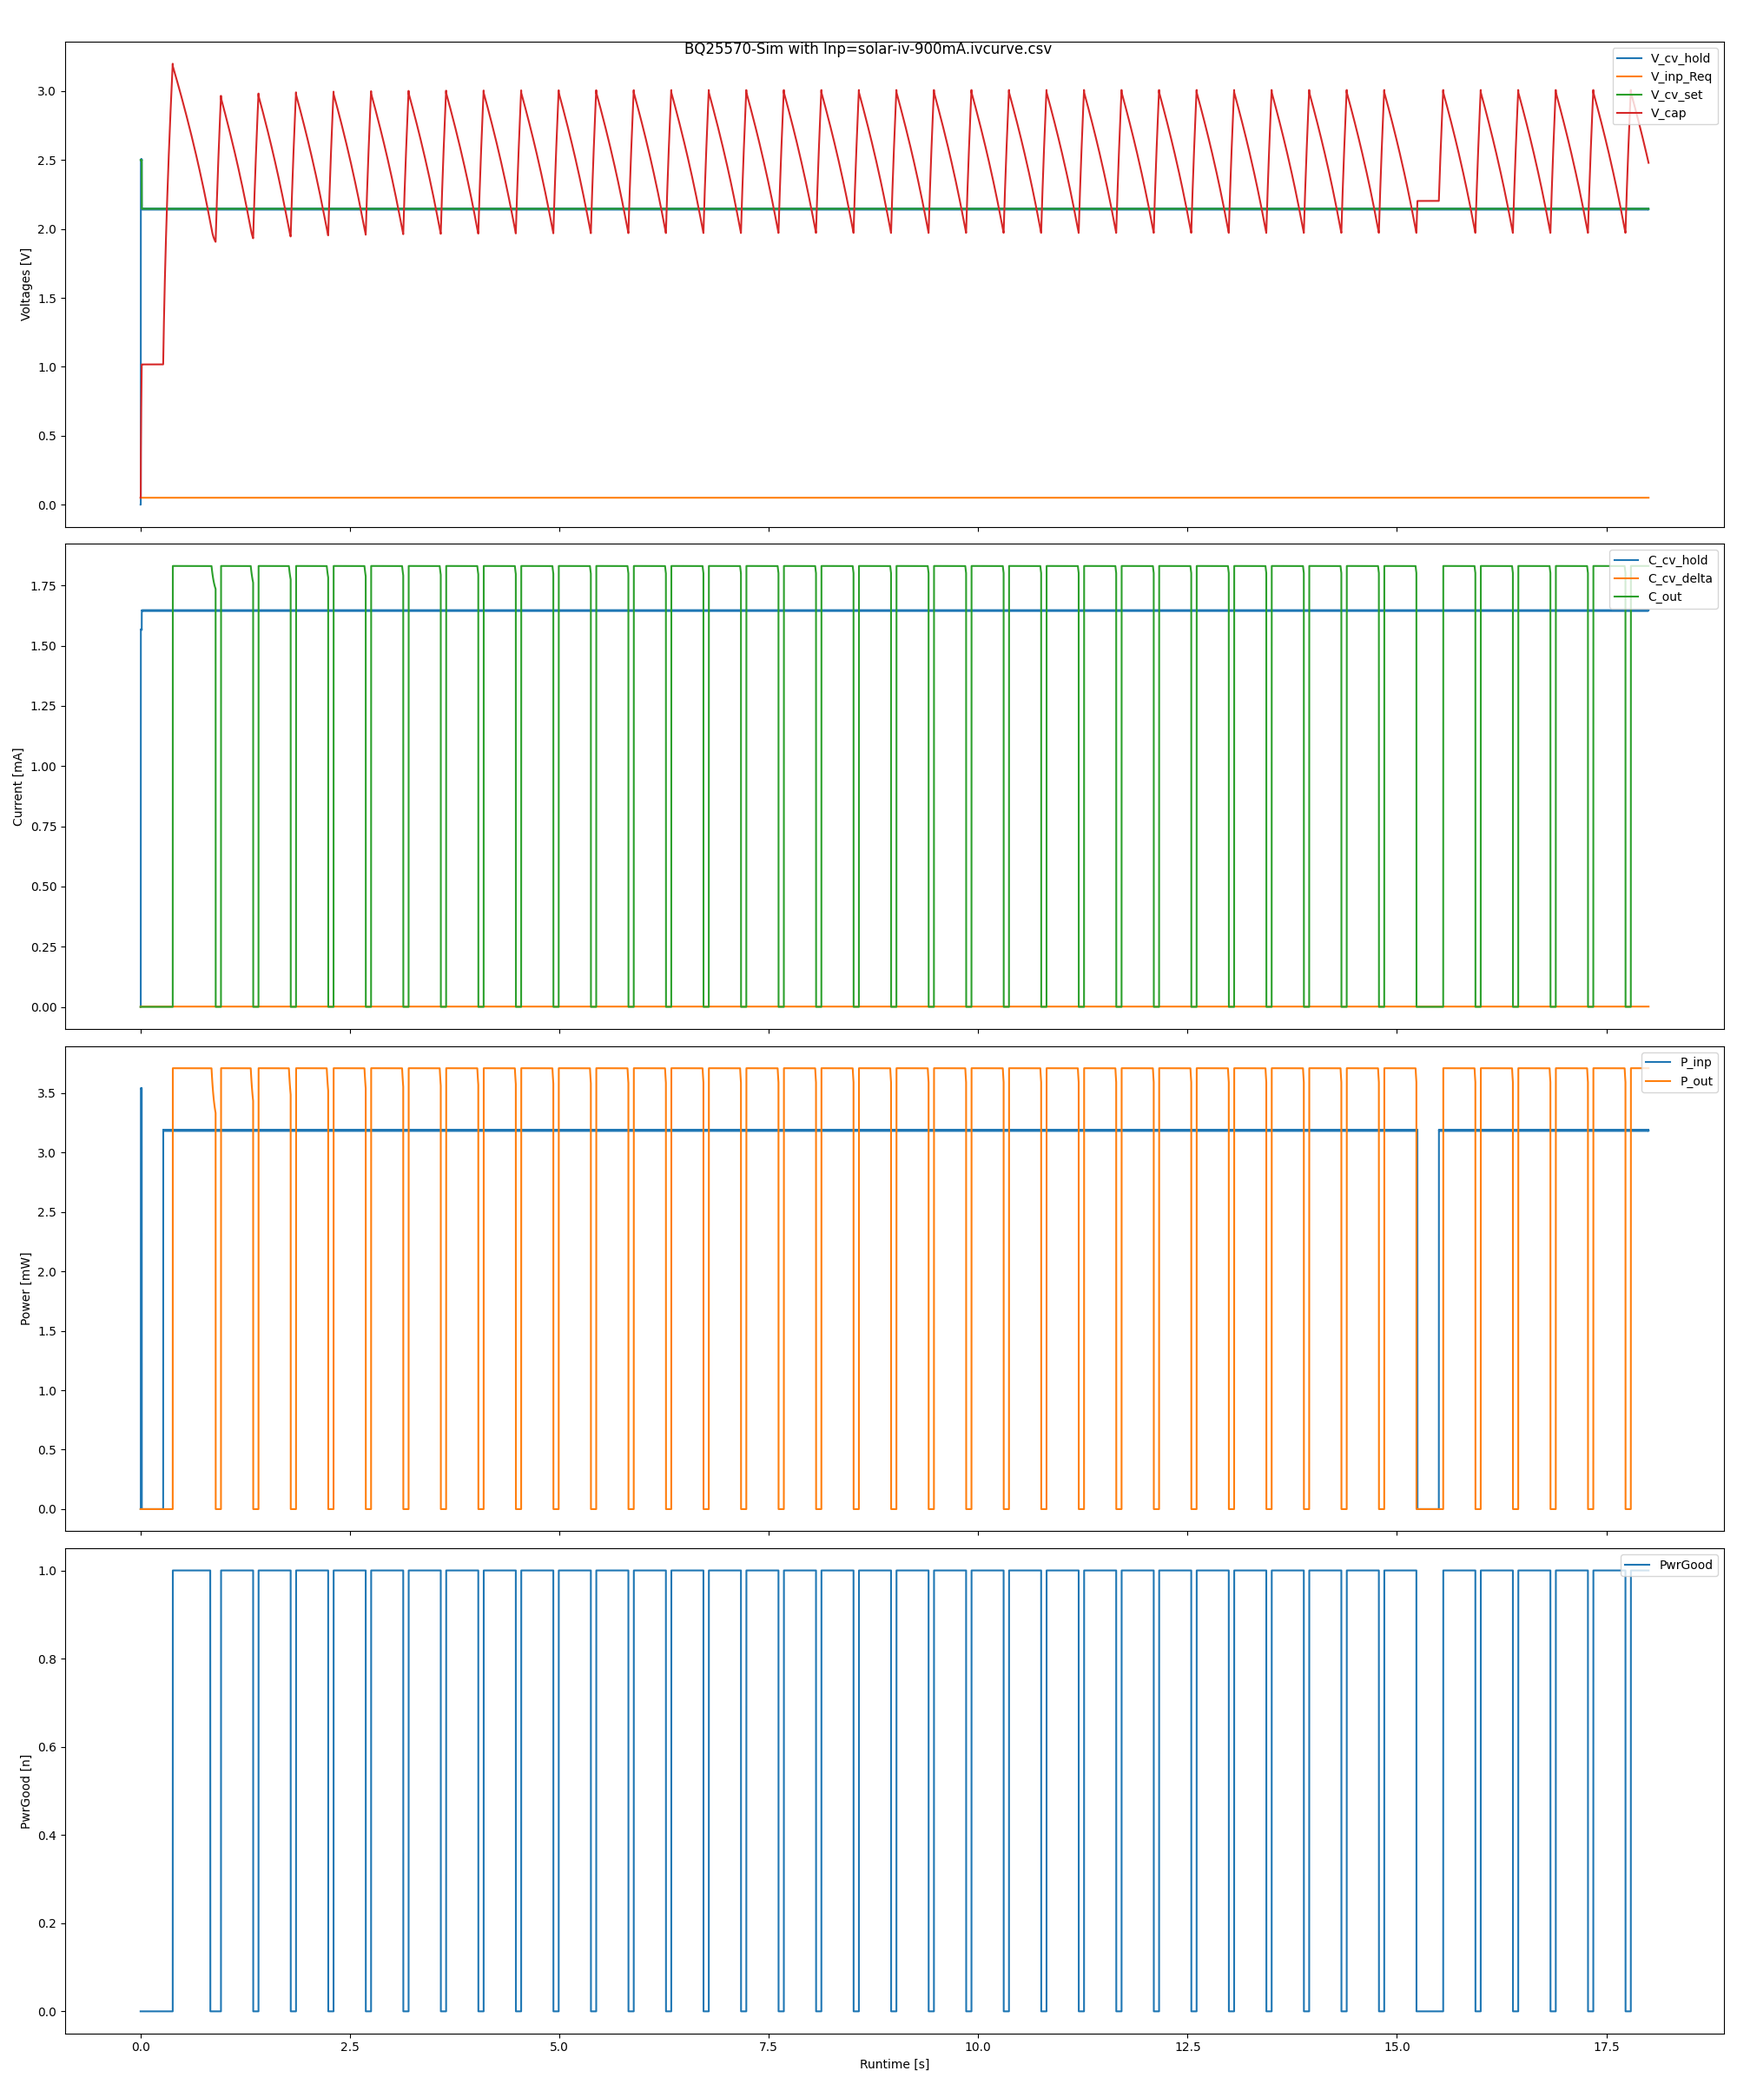
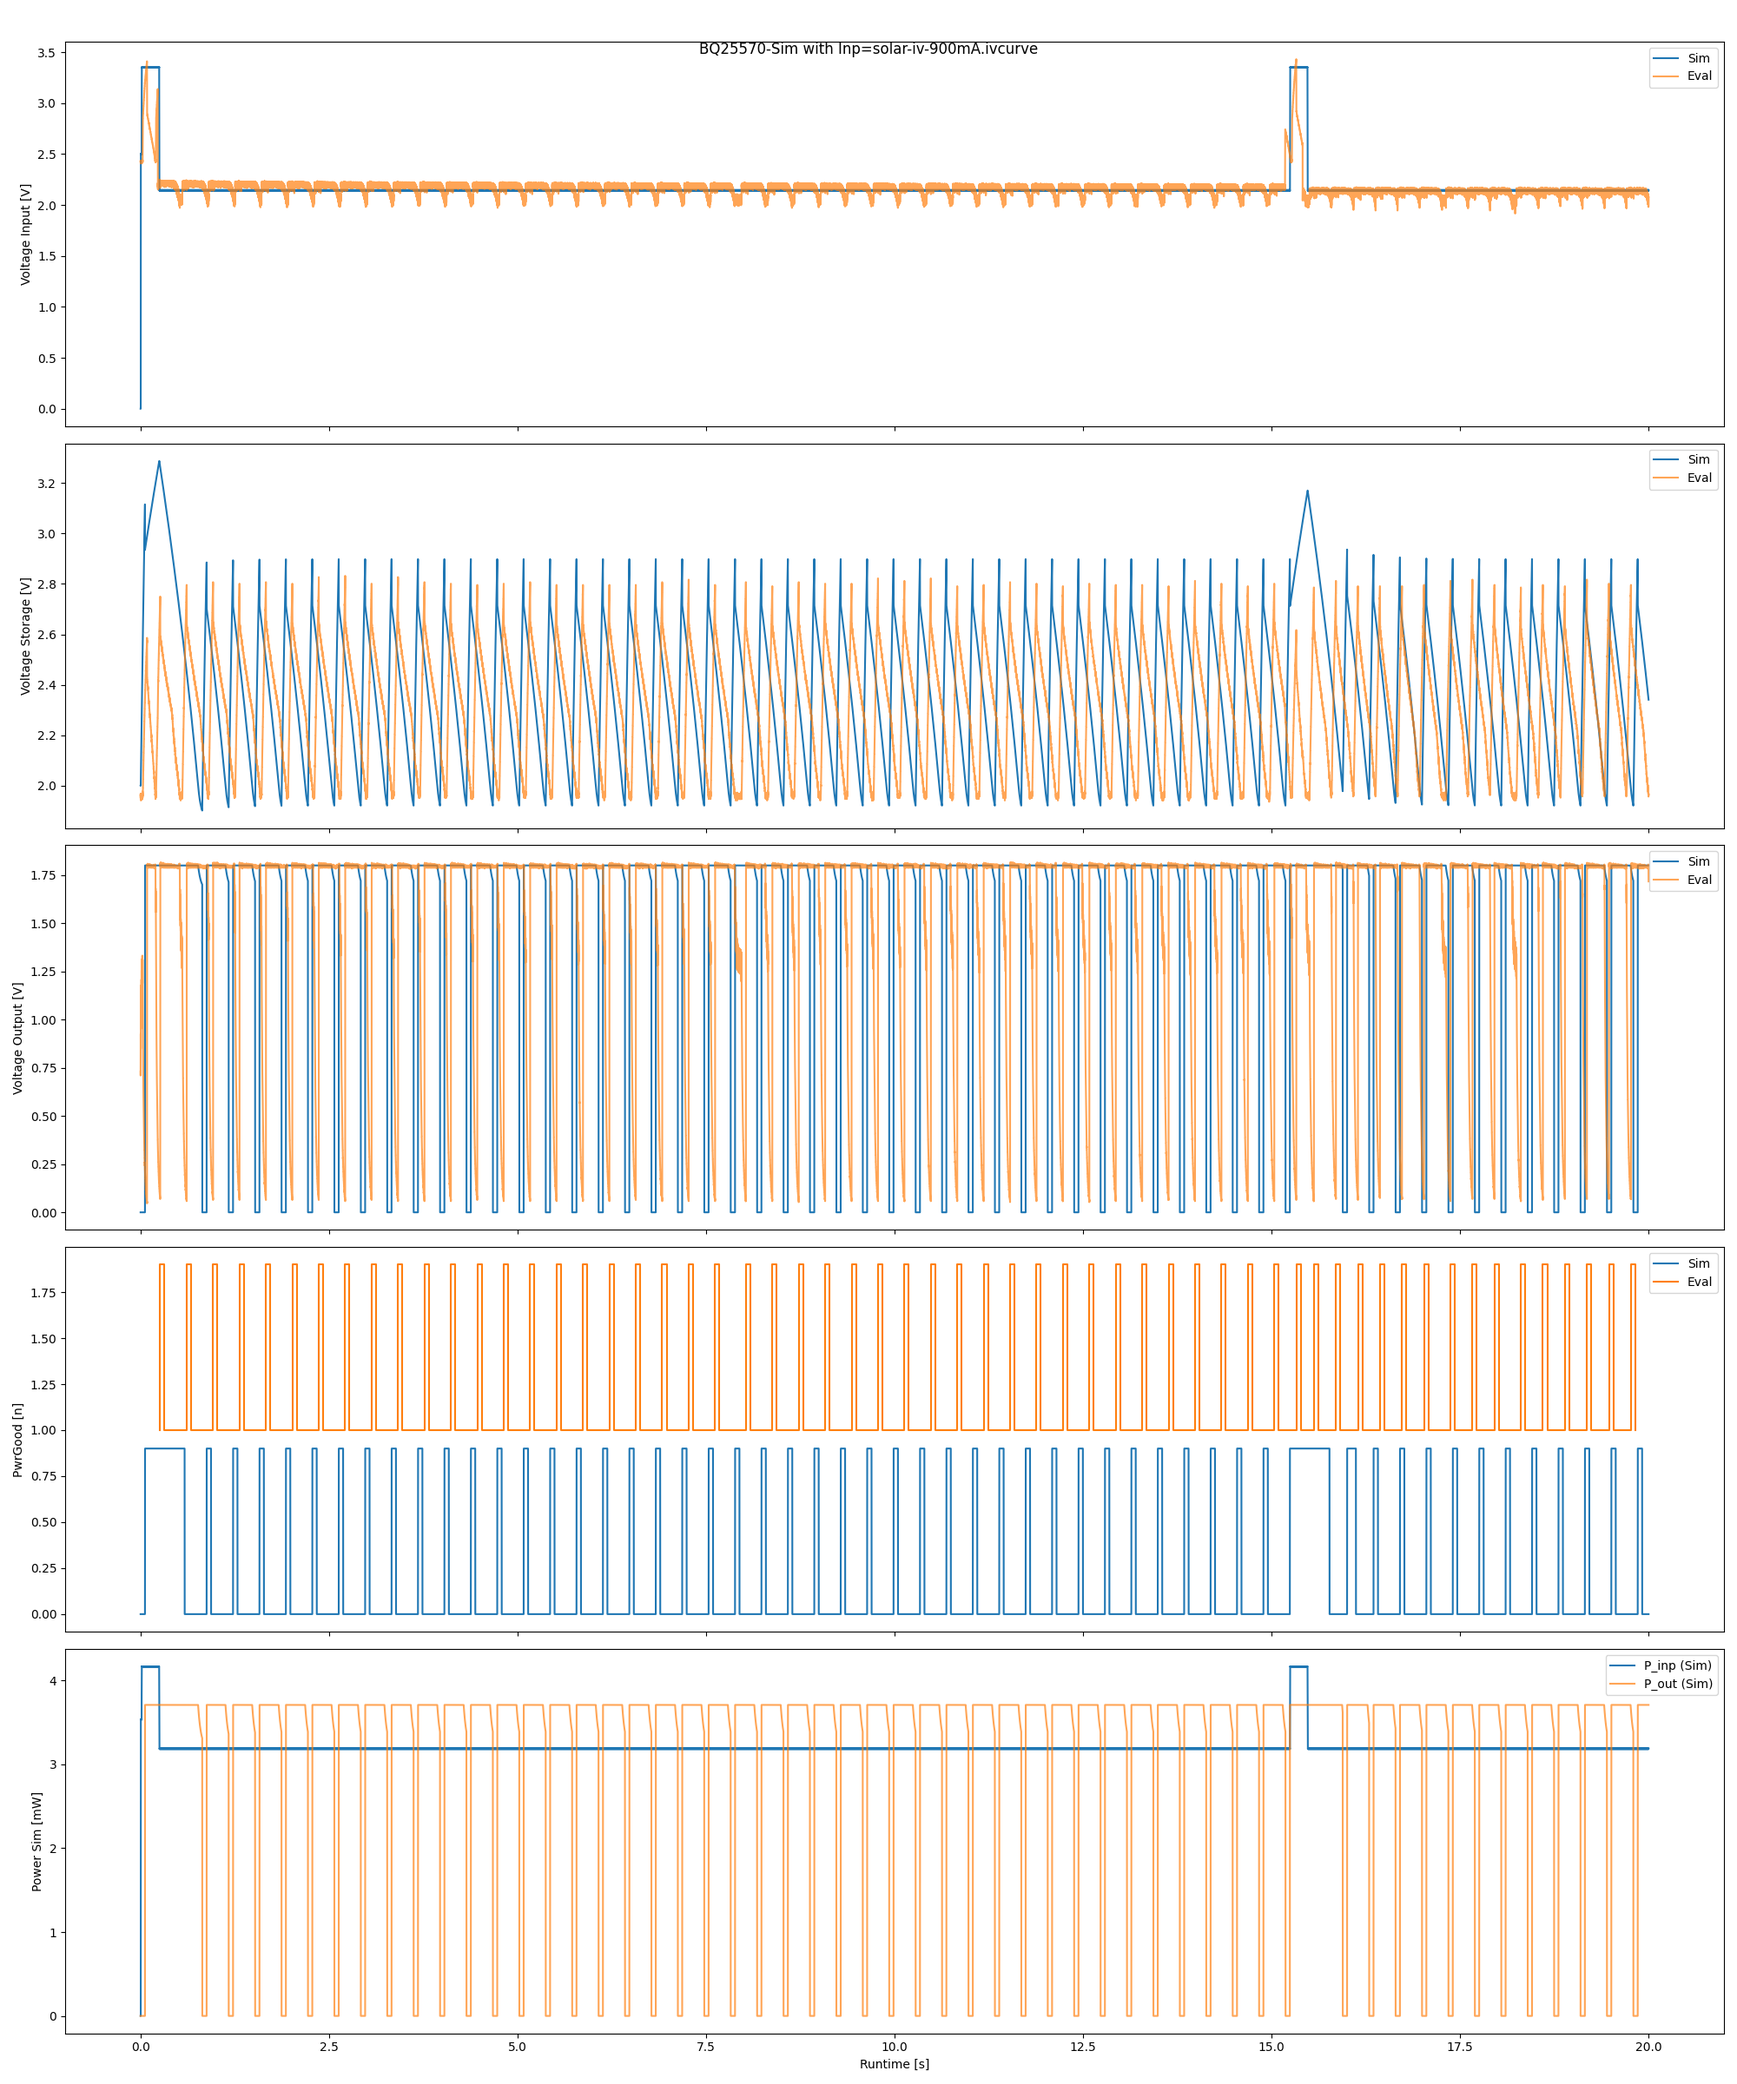
add simulation

diff --git a/scratch/vsrc_analysis/bq_shepherd.py b/scratch/vsrc_analysis/bq_shepherd.py
@@ -26,45 +26,49 @@ from shepherd_core.vsource.target_model import TargetABC
 
 # Adapted to recordings
 cfg_bq25570_eval = VirtualSourceConfig(
-        name="BQ25570",
-        C_output_uF=2,
-        V_intermediate_enable_threshold_mV=2600,
-        V_intermediate_disable_threshold_mV=2000,
-        C_intermediate_uF=79,
-        V_intermediate_init_mV=50,
-        V_intermediate_max_mV=4100,
-        V_pwr_good_enable_threshold_mV=2600,
-        V_pwr_good_disable_threshold_mV=2100,
-        V_input_drop_mV=0,
-        V_output_mV=1800,
-        harvester=VirtualHarvesterConfig(
-            name="mppt_bq_solar",
-            interval_ms=15230,
-            # observation: VOC is ~3.8, but IC only shows 3.35 V (when disconnecting and measuring)
-            #               - set-point is therefor lower than expected (max 2200 mV)
-            voltage_max_mV=3350,
-            setpoint_n=2150/3350, # ~ 65%
+    name="BQ25570",
+    harvester=VirtualHarvesterConfig(
+        name="mppt_bq_solar",
+        interval_ms=15230,
+        # observation: VOC is 3.77, but IC-trace only shows 3.35 V (when disconnecting and measuring)
+        #               - set-point is therefor lower than expected (max 2200 mV)
+        voltage_max_mV=3350,
+        setpoint_n=2150 / 3350,  # ~ 65%
+        duration_ms=233,  #
+    ),
 
-        ),
-        # add measured LUTs - the presets are too efficient
-        LUT_input_efficiency = [
-        [0.000, 0.001, 0.002, 0.004, 0.009, 0.018, 0.037, 0.075, 0.151, 0.273, 0.349, 0.500],
-        [0.010, 0.010, 0.010, 0.012, 0.034, 0.077, 0.165, 0.339, 0.598, 0.620, 0.713, 0.730],
-        [0.050, 0.052, 0.057, 0.066, 0.086, 0.133, 0.228, 0.419, 0.798, 0.802, 0.795, 0.780],
-        [0.150, 0.278, 0.282, 0.291, 0.309, 0.344, 0.358, 0.553, 0.834, 0.835, 0.839, 0.835],
-        [0.280, 0.397, 0.632, 0.647, 0.677, 0.738, 0.800, 0.822, 0.863, 0.856, 0.842, 0.850],
-        [0.350, 0.516, 0.620, 0.798, 0.836, 0.839, 0.845, 0.857, 0.877, 0.828, 0.688, 0.825],
-        [0.400, 0.582, 0.660, 0.802, 0.834, 0.841, 0.855, 0.881, 0.889, 0.889, 0.874, 0.880],
-        [0.460, 0.650, 0.747, 0.812, 0.843, 0.848, 0.859, 0.880, 0.893, 0.895, 0.888, 0.882],
-        [0.500, 0.690, 0.795, 0.841, 0.866, 0.874, 0.889, 0.890, 0.891, 0.895, 0.892, 0.880],
-        [0.520, 0.710, 0.789, 0.852, 0.877, 0.884, 0.895, 0.900, 0.897, 0.894, 0.888, 0.881],
-        [0.530, 0.770, 0.806, 0.834, 0.875, 0.883, 0.895, 0.901, 0.899, 0.895, 0.895, 0.879],
-        [0.550, 0.800, 0.824, 0.848, 0.883, 0.890, 0.901, 0.906, 0.903, 0.898, 0.900, 0.885],
-        ],
-        LUT_input_V_min_log2_uV = 17,
-        LUT_input_I_min_log2_nA = 13,
-        LUT_output_efficiency=[0.100, 0.300, 0.539, 0.713, 0.772, 0.812, 0.840, 0.851, 0.867, 0.868, 0.876, 0.869],
-        LUT_output_I_min_log2_nA=10,
+    C_intermediate_uF=79,  # measured on eval-kit
+    I_intermediate_leak_nA=0,
+    V_intermediate_init_mV=2000,
+    V_intermediate_max_mV=4100,
+    V_intermediate_enable_threshold_mV=2700,
+    V_intermediate_disable_threshold_mV=1900,
+    V_pwr_good_enable_threshold_mV=2700,
+    V_pwr_good_disable_threshold_mV=2600,
+    interval_check_thresholds_ms=58.4,  # observation: 900mA-trace shows 350 or 408 ms cycles
+
+    V_output_mV=1800,
+    C_output_uF=23,  # observation: 900mA-trace shows ~175mV drop when enabling buck
+
+    # add measured LUTs - the presets are too efficient
+    LUT_input_efficiency = [
+    [0.000, 0.001, 0.002, 0.004, 0.009, 0.018, 0.037, 0.075, 0.151, 0.273, 0.349, 0.500],
+    [0.010, 0.010, 0.010, 0.012, 0.034, 0.077, 0.165, 0.339, 0.598, 0.620, 0.713, 0.730],
+    [0.050, 0.052, 0.057, 0.066, 0.086, 0.133, 0.228, 0.419, 0.798, 0.802, 0.795, 0.780],
+    [0.150, 0.278, 0.282, 0.291, 0.309, 0.344, 0.358, 0.553, 0.834, 0.835, 0.839, 0.835],
+    [0.280, 0.397, 0.632, 0.647, 0.677, 0.738, 0.800, 0.822, 0.863, 0.856, 0.842, 0.850],
+    [0.350, 0.516, 0.620, 0.798, 0.836, 0.839, 0.845, 0.857, 0.877, 0.828, 0.688, 0.825],
+    [0.400, 0.582, 0.660, 0.802, 0.834, 0.841, 0.855, 0.881, 0.889, 0.889, 0.874, 0.880],
+    [0.460, 0.650, 0.747, 0.812, 0.843, 0.848, 0.859, 0.880, 0.893, 0.895, 0.888, 0.882],
+    [0.500, 0.690, 0.795, 0.841, 0.866, 0.874, 0.889, 0.890, 0.891, 0.895, 0.892, 0.880],
+    [0.520, 0.710, 0.789, 0.852, 0.877, 0.884, 0.895, 0.900, 0.897, 0.894, 0.888, 0.881],
+    [0.530, 0.770, 0.806, 0.834, 0.875, 0.883, 0.895, 0.901, 0.899, 0.895, 0.895, 0.879],
+    [0.550, 0.800, 0.824, 0.848, 0.883, 0.890, 0.901, 0.906, 0.903, 0.898, 0.900, 0.885],
+    ],
+    LUT_input_V_min_log2_uV = 17,
+    LUT_input_I_min_log2_nA = 13,
+    LUT_output_efficiency=[0.100, 0.300, 0.539, 0.713, 0.772, 0.812, 0.840, 0.851, 0.867, 0.868, 0.876, 0.869],
+    LUT_output_I_min_log2_nA=10,
     )
 
 
@@ -74,7 +78,7 @@ def simulate_source(
     config: VirtualSourceConfig = cfg_bq25570_eval,
     path_output: Optional[Path] = None,
     runtime: float = 100,
-) -> np.ndarray:
+) -> pd.DataFrame:
     """Simulate behavior of virtual source algorithms.
 
     FN returns the consumed energy of the target.
@@ -108,10 +112,11 @@ def simulate_source(
         log_intermediate=False,
         window_size=window_size,
     )
+    print(f"dV_output_mV = {src.cnv.dV_enable_output_uV}")
     i_out_nA = 0
     e_out_Ws = 0.0
     stats_sample = 0
-    stats_internal = np.empty((samples_total, 11))
+    stats_internal = np.empty((samples_total, 12))
 
     for _idx in tqdm(range(0, samples_total, window_size),
         total=ivcurve_reps, desc="sample", leave=False
@@ -129,10 +134,11 @@ def simulate_source(
             if stats_internal is not None:
                 stats_internal[stats_sample] = [
                     _t[_n],  # s
-                    src.hrv.voltage_hold * 1e-6,
+                    src.cnv.V_input_uV * 1e-6,
                     src.cnv.V_input_request_uV * 1e-6,  # V
                     src.hrv.voltage_set_uV * 1e-6,
                     src.cnv.V_mid_uV * 1e-6,
+                    v_uV[_n] * 1e-6,
                     src.hrv.current_hold * 1e-6,  # mA
                     src.hrv.current_delta * 1e-6,
                     i_out_nA * 1e-6,
@@ -150,4 +156,13 @@ def simulate_source(
 
     stack.close()
     stats_internal = stats_internal[:stats_sample, :]
+    stats_internal = pd.DataFrame(
+        stats_internal,
+        columns=[
+            "time",
+            "V_inp", "V_inp_Req", "V_cv_set", "V_cap", "V_out",
+            "C_cv_hold", "C_cv_delta", "C_out",
+            "P_inp", "P_out",
+            "PwrGood",
+        ])
     return stats_internal

diff --git a/scratch/vsrc_analysis/bq_plot_900mA.py b/scratch/vsrc_analysis/bq_plot_900mA.py
@@ -2,40 +2,75 @@ from pathlib import Path
 
 from shepherd_core.vsource import ResistiveTarget
 from matplotlib import pyplot as plt
+import pandas as pd
 
 from bq_shepherd import simulate_source
 
-path_input = Path(__file__).parent / "bq-characteristics/solar-iv-900mA.ivcurve.csv"
+# config - mainly for sim
+path_there = Path(__file__).parent / "bq-characteristics"
+path_input = path_there / "solar-iv-900mA.ivcurve.csv"
 target = ResistiveTarget(R_Ohm=983, controlled=False)
+eval_runtime = 20
 
+# open eval-data
+eval_stats = pd.read_pickle(path_there / "R1k, LED 900mA.analog.pickle", compression="zstd")
+eval_pwrgd = pd.read_pickle(path_there / "R1k, LED 900mA.digital.pickle", compression="zstd")
+# allow visualisation for digital data
+eval_d2 = eval_pwrgd.iloc[:-1, :]
+eval_d2["Time [s]"] = eval_pwrgd["Time [s]"].iloc[1:].reset_index(drop=True) - 10e-9
+eval_pwrgd = pd.concat([eval_pwrgd, eval_d2], axis=0, ignore_index=True).sort_values(by=["Time [s]"]).reset_index(drop=True)
 
-stats_internal = simulate_source(
+# run simulation
+sim_stats = simulate_source(
     target=target,
     path_ivcurve=path_input,
-    runtime=18,
+    runtime=eval_runtime,
     # path_output=file_output,
 )
 
+# Align data
+# sim_stats["time"] = sim_stats["time"] + 21.45
+eval_stats["Time [s]"] = eval_stats["Time [s]"] - 21.48
+eval_pwrgd["Time [s]"] = eval_pwrgd["Time [s]"] - 21.48
 
-fig, axs = plt.subplots(4, 1, sharex="all", figsize=(20, 4 * 6), layout="tight")
-fig.suptitle(f"BQ25570-Sim with Inp={path_input.name}") #, E={e_out_Ws} Ws")
-axs[0].set_ylabel("Voltages [V]")
-axs[0].plot(stats_internal[:, 0], stats_internal[:, 1:5])
-axs[0].legend(["V_cv_hold", "V_inp_Req", "V_cv_set", "V_cap"], loc="upper right")
+# shorten timeframe
+eval_runtime = min(eval_runtime, sim_stats["time"].max())
+eval_stats = eval_stats.loc[eval_stats["Time [s]"] <= eval_runtime]
+eval_stats = eval_stats.loc[eval_stats["Time [s]"] >= 0.0]
+eval_pwrgd = eval_pwrgd.loc[eval_pwrgd["Time [s]"] <= eval_runtime]
+eval_pwrgd = eval_pwrgd.loc[eval_pwrgd["Time [s]"] >= 0.0]
+sim_stats = sim_stats.loc[sim_stats["time"] <= eval_runtime]
+sim_stats = sim_stats.loc[sim_stats["time"] >= 0.0]
 
-axs[1].set_ylabel("Current [mA]")
-axs[1].plot(stats_internal[:, 0], stats_internal[:, 5:8])
-axs[1].legend(["C_cv_hold", "C_cv_delta", "C_out"], loc="upper right")
+# Visualize
+fig, axs = plt.subplots(5, 1, sharex="all", figsize=(20, 4 * 6), layout="tight")
+fig.suptitle(f"BQ25570-Sim with Inp={path_input.stem}") #, E={e_out_Ws} Ws")
+axs[0].set_ylabel("Voltage Input [V]")
+axs[0].plot(sim_stats["time"], sim_stats["V_inp"])
+axs[0].plot(eval_stats["Time [s]"], eval_stats["V_IN"],alpha=0.7)
+axs[0].legend(["Sim", "Eval"], loc="upper right")
 
-axs[2].set_ylabel("Power [mW]")
-axs[2].plot(stats_internal[:, 0:1], stats_internal[:, 8:10])
-axs[2].legend(["P_inp", "P_out"], loc="upper right")
+axs[1].set_ylabel("Voltage Storage [V]")
+axs[1].plot(sim_stats["time"], sim_stats["V_cap"])
+axs[1].plot(eval_stats["Time [s]"], eval_stats["V_BAT"],alpha=0.7)
+axs[1].legend(["Sim", "Eval"], loc="upper right")
+
+axs[2].set_ylabel("Voltage Output [V]")
+axs[2].plot(sim_stats["time"], sim_stats["V_out"])
+axs[2].plot(eval_stats["Time [s]"], eval_stats["V_OUT"],alpha=0.7)
+axs[2].legend(["Sim", "Eval"], loc="upper right")
 
 axs[3].set_ylabel("PwrGood [n]")
-axs[3].plot(stats_internal[:, 0], stats_internal[:, 10])
-axs[3].legend(["PwrGood"], loc="upper right")
+axs[3].plot(sim_stats["time"], 0.9 * sim_stats["PwrGood"])
+axs[3].plot(eval_pwrgd["Time [s]"], 0.9 * eval_pwrgd["BAT_OK"] + 1.0)
+axs[3].legend(["Sim", "Eval"], loc="upper right")
 
-axs[3].set_xlabel("Runtime [s]")
+axs[4].set_ylabel("Power Sim [mW]")
+axs[4].plot(sim_stats["time"], sim_stats["P_inp"])
+axs[4].plot(sim_stats["time"], sim_stats["P_out"],alpha=0.7)
+axs[4].legend(["P_inp (Sim)", "P_out (Sim)"], loc="upper right")
+
+axs[4].set_xlabel("Runtime [s]")
 
 for ax in axs:
     # deactivates offset-creation for ax-ticks
@@ -46,4 +81,4 @@ plt.savefig(Path(__file__).with_suffix(".png"))
 plt.close(fig)
 plt.clf()
 
-print(f"PowerGood - Ratio: {stats_internal[:, 10].sum() / stats_internal.shape[0]:.3f}")
+print(f"PowerGood - Ratio: {sim_stats["PwrGood"].sum() / sim_stats["PwrGood"].shape[0]:.3f}")
